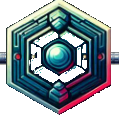
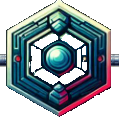
another commit

diff --git a/src/main9.js b/src/main9.js
@@ -6,6 +6,8 @@
 -aplicar algun filtro de color por los niveles y el daño de las naves
 -sonidos
 -que las plataformas sean mas grises
+-el bug de los disparos que quedan flotando
+-que disparen dentro de la pantalla
 */
 
 class Utils {
@@ -1027,7 +1029,7 @@ class Game extends Phaser.Scene {
 
   preload() {
     this.load.image('milkyway', 'assets/background7.png');
-    this.load.image('buttonTower', 'assets/buttonTower4.png');
+    this.load.image('buttonTower', 'assets/buttonTower6.png');
     this.load.image('up', 'assets/up.png');
     this.load.image('left', 'assets/left.png');
     this.load.image('right', 'assets/right.png');
